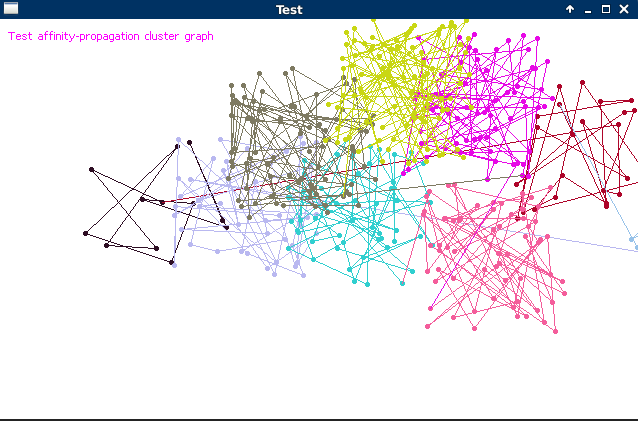
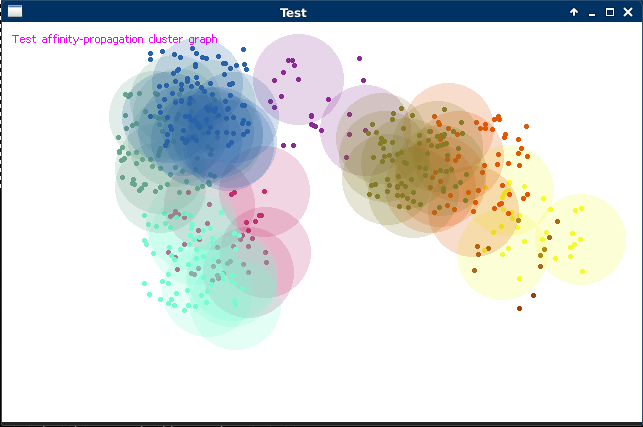
update

diff --git a/examples/affinity.cpp b/examples/affinity.cpp
@@ -16,33 +16,28 @@ int main(int argc, char *argv[])
 		cout<< "Error: file data affinity-propagation and factor"<< endl;
 		exit(0);
   	}
+
+	float fac = atof(argv[2]); 
+	float x=200,y=120;
+        const unsigned char p[3] = { 255,0,255 };
 	CImg<unsigned char> img(640,400,1,3);
         img.fill(255,255,255);
-        const unsigned char p[3] = { 255,0,255 };
-        
         img.draw_text(10,10,"Test affinity-propagation cluster graph",p);
 
         AffinityPro pro;
         pro.setup(argv[1]);
         pro.update();
-	float fac = atof(argv[2]); 
-	float x=200,y=120;
-	int ix = 0, iy = 0;
-	if(pro.getData().id.size()>0)
-	{
-		ix = x+pro.getData().id[0].second.x*fac;
-		iy = y+pro.getData().id[0].second.y*fac;
-	}
+
 	for(unsigned int i = 0; i < pro.getData().id.size(); i++)
 	{
 	        unsigned char r[3] = { (unsigned char)pro.getData().id[i].second.r,
 				       (unsigned char)pro.getData().id[i].second.g,
 				       (unsigned char)pro.getData().id[i].second.b };
 
+		if( pro.getData().id[i].first != pro.getData().id[i+1].first )
+	                img.draw_circle(x+pro.getData().id[i].second.x*fac,y+pro.getData().id[i].second.y*fac,45,r,0.2);
+		
                 img.draw_circle(x+pro.getData().id[i].second.x*fac,y+pro.getData().id[i].second.y*fac,2,r);
-		img.draw_line(ix,iy,x+pro.getData().id[i].second.x*fac,y+pro.getData().id[i].second.y*fac,r,2);
-		ix = (x+pro.getData().id[i].second.x*fac);
-		iy = (y+pro.getData().id[i].second.y*fac);
 	}
 
 	img.save("affinity-propagation.jpg");
